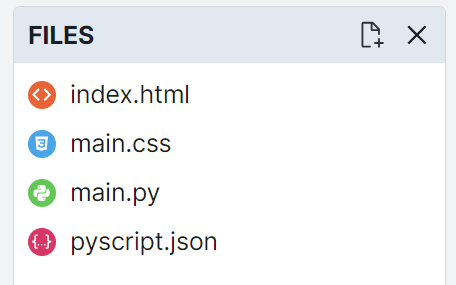
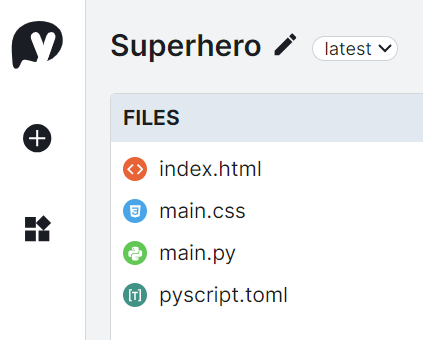
up

diff --git a/docs/pyscript/superheroes.rst b/docs/pyscript/superheroes.rst
@@ -9,8 +9,8 @@ Superheroes
 
 ----
 
-Files
----------
+Superhero Name Generator: simple version
+-------------------------------------------
 
 Making a new project in pyscript starts with 3 files.
 
@@ -20,6 +20,113 @@ Making a new project in pyscript starts with 3 files.
 | The **index.html** file is served to your browser. It has the interface elements and links to python code.
 | The **main.py** is for python code that defines how your application works.
 | The **pyscript.toml** file is used to configure the project. e.g specifying python modules via   ``packages = ["numpy"]``
+
+----
+
+pyscript.toml
+------------------
+
+| This file will be empty, since htere are no needed modules in this simple version.
+
+----
+
+index.html
+-----------------
+
+
+| The 
+
+
+.. code-block:: html
+
+    <!-- GMC Nov 2023; no css; no js; using 2023.05.1/pyscript.js -->
+    <!DOCTYPE html>
+    <html lang="en">
+    <head>
+        <title>Superhero Name</title>
+        <meta charset="UTF-8">
+        <meta name="viewport" content="width=device-width,initial-scale=1">
+        <link rel="stylesheet" href="https://pyscript.net/releases/2023.11.1/pyscript.css" />
+        <script type="module" src="https://pyscript.net/releases/2023.11.1/core.js"></script>
+    </head>
+    <body>
+        <h1>Superhero Name Generator</h1>
+        <p>Enter initials.</p>
+        <div class="form-group">
+            <label for="firstinitial">First name initial:</label>
+            <input type="text" id="firstinitial" name="firstinitial"">
+        </div>
+        <div class="form-group">
+            <label for="lastinitial">Last name initial:</label>
+            <input type="text" id="lastinitial" name="lastinitial">
+        </div>
+        <button py-click="namegenerator">Generate Superhero</button><br>
+        <div class="form-group">
+            <label for="superhero">Superhero name:</label> <p id="superhero"></p>
+        </div>
+        <py-config src="./pyscript.toml"></py-config>
+        <py-script src="./main.py"></py-script>
+    </body>
+    </html>
+
+----
+
+main.py
+------------
+
+| 
+
+.. code-block:: python
+
+    from pyscript import document
+
+    first_names = {
+        "A": "Atomic", "B": "Blazing", "C": "Cosmic",
+        "D": "Daring", "E": "Electric", "F": "Furious",
+        "G": "Galactic", "H": "Hyper", "I": "Invincible",
+        "J": "Justice", "K": "Kinetic", "L": "Legendary",
+        "M": "Mighty", "N": "Noble", "O": "Omega",
+        "P": "Polaris", "Q": "Quantum", "R": "Radiant",
+        "S": "Stealth", "T": "Titan", "U": "Unstoppable",
+        "V": "Vigilant", "W": "Warrior", "X": "Xeno",
+        "Y": "Yieldless", "Z": "Zephyr",
+    }
+
+    last_names = {
+        "A": "Avenger", "B": "Blade", "C": "Crusader",
+        "D": "Defender", "E": "Eagle", "F": "Falcon",
+        "G": "Guardian", "H": "Hawk", "I": "Inferno",
+        "J": "Jaguar", "K": "Knight", "L": "Lion",
+        "M": "Marvel", "N": "Ninja", "O": "Oracle",
+        "P": "Phantom", "Q": "Quicksilver", "R": "Ranger",
+        "S": "Specter", "T": "Thunder", "U": "Ultra",
+        "V": "Viper", "W": "Wolf", "X": "Xiphos",
+        "Y": "Youngstorm", "Z": "Zoom",
+    }
+
+
+    def get_superhero(first_initial, last_initial):
+        superhero_name = first_names[first_initial] + " " + last_names[last_initial]
+        return superhero_name
+
+    def namegenerator(event):
+        firstinitial_element = document.querySelector("#firstinitial")
+        lastinitial_element = document.querySelector("#lastinitial")
+        # add validation for letters A to Z; random if empty
+        validAZ = True
+        first_initial = firstinitial_element.value.upper()
+        last_initial = lastinitial_element.value.upper()
+        if not first_initial.isalpha():
+            validAZ = False
+        if not last_initial.isalpha():
+            validAZ = False
+        output_div_text = document.querySelector("#superhero")
+        if validAZ:
+            output_div_text.innerText = get_superhero(first_initial, last_initial)
+        else:
+            output_div_text.innerText = "Enter initials."
+
+
 
 
 
@@ -31,3 +138,10 @@ Javascript improvements
 .. image:: images/superhero_files.png
     :scale: 100%
 
+.value and .innerText are both properties of HTML elements that can be used to get or set the text content of an element. However, they are used in different contexts.
+
+.value is used to get or set the value of an input element, such as a text input or a select element. For example, if you have an input element with an id of myInput, you can get its value using document.getElementById('myInput').value.
+
+.innerText is used to get or set the text content of an element, such as a <div> or a <p> element. For example, if you have a <div> element with an id of myDiv, you can get its text content using document.getElementById('myDiv').innerText.
+
+In general, you should use .value to get or set the value of an input element, and .innerText to get or set the text content of other types of elements.

diff --git a/docs/pyscript/pyscript_introduction.rst b/docs/pyscript/pyscript_introduction.rst
@@ -8,7 +8,57 @@ Key references:
 | Docs https://docs.pyscript.net/2023.11.1/
 | User guide: https://docs.pyscript.net/2023.11.1/user-guide/
 
-PyScript is designed to allow the running of Python in web browsers.
+| PyScript is designed to allow the running of Python in web browsers.
+| PyScript appapps can be hosted as a static web site. 
 
-To distribute a PyScript application, host it as a static web site, then click on the link to your application. 
+----
+
+Sign up
+----------
+
+| Go to https://pyscript.com/ and sign up.
+
+----
+
+New project
+-------------
+
+.. image:: images/new_project.png
+    :scale: 100%
+
+| To start a new project, on the dashboard, click the new project (plus) button.
+
+Project files
+--------------
+
+| Making a new project in pyscript starts with 3 files.
+
+.. image:: images/new_project_files.png
+    :scale: 100%
+
+| The **index.html** file is served to your browser. It has the interface elements and links to python code.
+| The **main.py** is for python code that defines how your application works.
+| The **pyscript.toml** file is used to configure the project. e.g specifying python modules via   ``packages = ["numpy", "pandas"]``. It can be empty. 
+
+| The **index.html** file starts as a basic template.
+| The latest versions of the <link> and <script> tags have been inserted as shown below (as of Dec 2023).
+
+
+.. code-block::
+
+    <!DOCTYPE html>
+    <html lang="en">
+    <head>
+        <title>New Project</title>
+        <meta charset="UTF-8">
+        <meta name="viewport" content="width=device-width,initial-scale=1">
+        <link rel="stylesheet" href="https://pyscript.net/releases/2023.11.1/pyscript.css" />
+        <script type="module" src="https://pyscript.net/releases/2023.11.1/core.js"></script>
+    </head>
+    <body>
+        <py-config src="./pyscript.toml"></py-config>
+        <py-script src="./main.py"></py-script>
+    </body>
+    </html>
+
 
